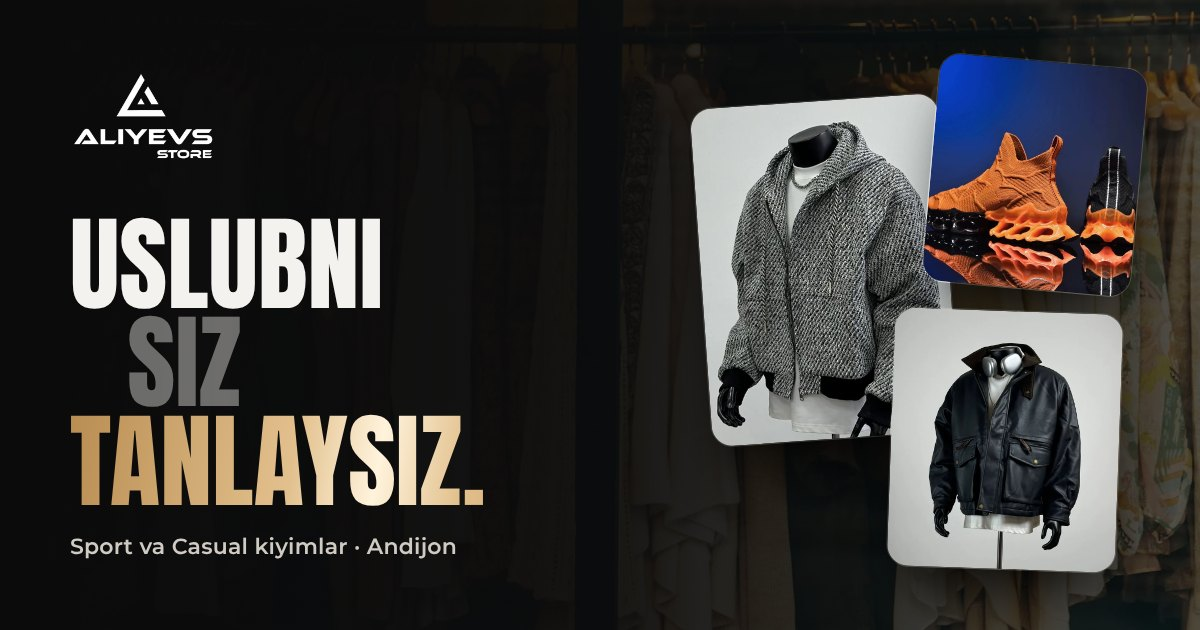
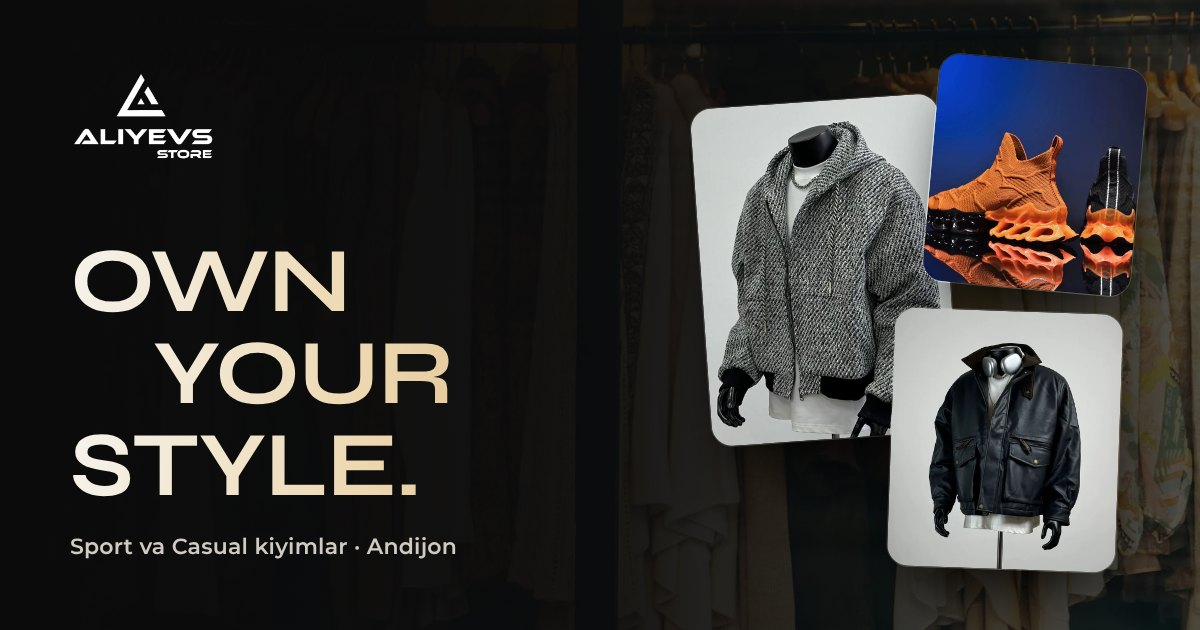
Hero sarlavhasi: OWN YOUR STYLE.
- Syne shrifti (700), kichikroq o'lcham
- Har bir harf oqdan oltinga o'tuvchi rangda, vaqti-vaqti bilan nur o'tadi
- Hover/focus: harflar to'lqin bo'lib ko'tariladi; telefonda bosganda to'lqin
- Boshqa bo'limlar o'zgarmadi (o'lchamlar tekshirildi)
- Banner rasm yangi sarlavha bilan yangilandi

Claude-Session: https://claude.ai/code/session_01ATyw3cUN3ipBzt6tg7AnQA

Changed region(s): [[0.0617, 0.3317, 0.4008, 0.8143]]

diff --git a/style.css b/style.css
@@ -236,22 +236,41 @@ body::before {
 @keyframes puls { 70% { box-shadow: 0 0 0 9px rgba(91,227,138,0); } 100% { box-shadow: 0 0 0 0 rgba(91,227,138,0); } }
 
 .hero-sarlavha {
-  display: flex; flex-direction: column;
-  font-family: var(--f-display); font-weight: 400;
-  font-size: clamp(64px, 10.5vw, 168px);
-  line-height: .97; letter-spacing: .005em; text-transform: uppercase;
+  display: flex; flex-direction: column; align-items: flex-start;
+  font-family: "Syne", var(--f-brend); font-weight: 700;
+  font-size: clamp(48px, 6.2vw, 100px);
+  line-height: 1; letter-spacing: -.015em; text-transform: uppercase;
+  outline: none; cursor: default; border-radius: 12px;
+  transition: filter .5s;
 }
-.hero-sarlavha .q { display: block; animation: kirish .9s cubic-bezier(.2,.7,.2,1) both; }
-.q1 { color: var(--matn); animation-delay: .08s !important; }
-.q2 { color: rgba(243,242,238,.42); animation-delay: .2s !important; padding-left: .6em; }
-.q3 {
-  animation-delay: .32s !important;
-  background: linear-gradient(100deg, #b98d52 0%, var(--aksent) 30%, #fff6e3 45%, var(--aksent) 60%, #b98d52 100%);
-  background-size: 250% 100%;
-  -webkit-background-clip: text; background-clip: text; color: transparent;
-  animation: kirish .9s cubic-bezier(.2,.7,.2,1) .32s both, yaltirash 6s linear 1.2s infinite !important;
+.hero-sarlavha .q { display: block; white-space: nowrap; animation: kirish .9s cubic-bezier(.2,.7,.2,1) both; }
+.q1 { animation-delay: .08s !important; }
+.q2 { animation-delay: .2s !important; padding-left: .9em; }
+.q3 { animation-delay: .32s !important; }
+
+/* Har bir harf: oqdan oltinga o'tuvchi rang + vaqti-vaqti bilan o'tuvchi nur */
+.harf {
+  display: inline-block;
+  color: color-mix(in oklab, #f6f3ec, #d9b27a calc(var(--t) * 100%));
+  transition: transform .45s cubic-bezier(.2,.9,.25,1.35), color .35s, text-shadow .35s;
+  transition-delay: calc(var(--i) * 28ms);
+  animation: nur-harf 7s ease-in-out infinite;
+  animation-delay: calc(1.6s + var(--i) * 70ms);
 }
-@keyframes yaltirash { to { background-position: -250% 0; } }
+@keyframes nur-harf {
+  0%, 12%, 100% { text-shadow: none; filter: none; }
+  5% { text-shadow: 0 0 18px rgba(255,236,200,.75), 0 0 2px #fff6e3; filter: brightness(1.35); }
+}
+/* Hover / focus / bosish: harflar to'lqin bo'lib ko'tariladi va oltinga yonadi */
+.hero-sarlavha:hover .harf,
+.hero-sarlavha:focus-visible .harf,
+.hero-sarlavha.tolqin .harf {
+  transform: translateY(-.12em);
+  color: color-mix(in oklab, #fff3dc, #e2c08d calc(var(--t) * 60% + 30%));
+  text-shadow: 0 .12em .4em rgba(226,192,141,.35);
+}
+.hero-sarlavha:hover, .hero-sarlavha:focus-visible { filter: drop-shadow(0 0 28px rgba(226,192,141,.18)); }
+.hero-sarlavha:focus-visible { box-shadow: 0 0 0 2px rgba(226,192,141,.45); }
 @keyframes kirish { from { opacity: 0; transform: translateY(28px); } }
 
 .hero-izoh {
@@ -776,7 +795,7 @@ dialog::backdrop { background: rgba(0,0,0,.7); backdrop-filter: blur(4px); }
   .hero { min-height: 0; padding-block: 24px 40px; }
   .hero::before { background: linear-gradient(180deg, rgba(11,11,12,.75) 0%, rgba(11,11,12,.88) 55%, var(--fon) 100%); }
   .hero-pill { margin-bottom: 18px; font-size: 11px; }
-  .hero-sarlavha { font-size: clamp(52px, 16.5vw, 92px); }
+  .hero-sarlavha { font-size: clamp(40px, 12.6vw, 72px); }
   .hero-sahna { aspect-ratio: auto; display: grid; grid-template-columns: repeat(3, minmax(0, 1fr)); gap: 8px; }
   .sahna-karta { position: relative; inset: auto; width: auto; height: auto; aspect-ratio: 3 / 4; border-radius: 14px; animation: none; transform: none; left: auto; right: auto; top: auto; bottom: auto; }
   .sahna-yorliq b { margin-left: 0; }
@@ -901,5 +920,5 @@ dialog::backdrop { background: rgba(0,0,0,.7); backdrop-filter: blur(4px); }
   html { scroll-behavior: auto; }
   *, *::before, *::after { animation-duration: .01ms !important; animation-iteration-count: 1 !important; transition-duration: .01ms !important; }
   .glow:hover::before, .glow:focus-visible::before { animation: none; background: var(--aksent); }
-  .lenta-ichi, .lenta, .lenta::before, .lenta::after, .hero-fon img, .sahna-karta, .hero::after, .pastki-fon i, .uch { animation: none !important; }
+  .harf, .lenta-ichi, .lenta, .lenta::before, .lenta::after, .hero-fon img, .sahna-karta, .hero::after, .pastki-fon i, .uch { animation: none !important; }
 }

diff --git a/index.html b/index.html
@@ -16,7 +16,7 @@
   <meta property="og:image" content="https://aliyevs-store.aliyevofficial0011.workers.dev/og-banner.jpg">
   <meta property="og:image:width" content="1200">
   <meta property="og:image:height" content="630">
-  <meta property="og:image:alt" content="Aliyevs Store — Uslubni siz tanlaysiz.">
+  <meta property="og:image:alt" content="Aliyevs Store — Own your style.">
   <meta name="twitter:card" content="summary_large_image">
   <meta name="twitter:title" content="Aliyevs Store — Sport va Casual kiyimlar">
   <meta name="twitter:description" content="Zamonaviy uslub, ishonchli sifat. Kurtka, hudi va krossovkalar. Buyurtma Telegram orqali, Andijon bo'ylab yetkazib berish.">
@@ -26,7 +26,7 @@
   <link rel="apple-touch-icon" href="favicon.png">
   <link rel="preconnect" href="https://fonts.googleapis.com">
   <link rel="preconnect" href="https://fonts.gstatic.com" crossorigin>
-  <link href="https://fonts.googleapis.com/css2?family=Anton&family=Montserrat:wght@500;600;700&family=Manrope:wght@400;500;600;700&family=JetBrains+Mono:wght@500&display=swap" rel="stylesheet">
+  <link href="https://fonts.googleapis.com/css2?family=Anton&family=Syne:wght@600;700&family=Montserrat:wght@500;600;700&family=Manrope:wght@400;500;600;700&family=JetBrains+Mono:wght@500&display=swap" rel="stylesheet">
   <link rel="stylesheet" href="style.css">
 </head>
 <body>
@@ -72,10 +72,10 @@
       <div class="hero-ichi">
         <div class="hero-matn">
           <p class="hero-pill"><span class="tirik"></span>Sizning uslubingiz, bizning tanlovimiz</p>
-          <h1 class="hero-sarlavha">
-            <span class="q q1">Uslubni</span>
-            <span class="q q2">siz</span>
-            <span class="q q3">tanlaysiz.</span>
+          <h1 class="hero-sarlavha" tabindex="0" aria-label="Own your style.">
+            <span class="q q1" aria-hidden="true"><span class="harf" style="--i:0;--t:0.000">O</span><span class="harf" style="--i:1;--t:0.083">W</span><span class="harf" style="--i:2;--t:0.167">N</span></span>
+            <span class="q q2" aria-hidden="true"><span class="harf" style="--i:3;--t:0.250">Y</span><span class="harf" style="--i:4;--t:0.333">O</span><span class="harf" style="--i:5;--t:0.417">U</span><span class="harf" style="--i:6;--t:0.500">R</span></span>
+            <span class="q q3" aria-hidden="true"><span class="harf" style="--i:7;--t:0.583">S</span><span class="harf" style="--i:8;--t:0.667">T</span><span class="harf" style="--i:9;--t:0.750">Y</span><span class="harf" style="--i:10;--t:0.833">L</span><span class="harf" style="--i:11;--t:0.917">E</span><span class="harf" style="--i:12;--t:1.000">.</span></span>
           </h1>
           <p class="hero-izoh">Kurtka, hudi va krossovkalar — har biri qo'lda tanlangan. Buyurtma Telegram orqali, Andijon bo'ylab yetkazib berish ertasigayoq.</p>
           <div class="hero-tugmalar">

diff --git a/dist/app.js b/dist/app.js
@@ -669,6 +669,12 @@ function hodisalar() {
             xabar("Matnni belgilab, nusxalang");
         }
     });
+    // Hero sarlavhasi: telefonda bosganda bir marta to'lqin
+    const sarlavha = $(".hero-sarlavha");
+    sarlavha.addEventListener("click", () => {
+        sarlavha.classList.add("tolqin");
+        window.setTimeout(() => sarlavha.classList.remove("tolqin"), 900);
+    });
     // Header soyasi (skroll qilinganda)
     const header = $(".menyu");
     const soya = () => header.classList.toggle("suzuvchi", window.scrollY > 8);

diff --git a/src/app.ts b/src/app.ts
@@ -721,6 +721,13 @@ function hodisalar(): void {
     }
   });
 
+  // Hero sarlavhasi: telefonda bosganda bir marta to'lqin
+  const sarlavha = $(".hero-sarlavha");
+  sarlavha.addEventListener("click", () => {
+    sarlavha.classList.add("tolqin");
+    window.setTimeout(() => sarlavha.classList.remove("tolqin"), 900);
+  });
+
   // Header soyasi (skroll qilinganda)
   const header = $(".menyu");
   const soya = () => header.classList.toggle("suzuvchi", window.scrollY > 8);
